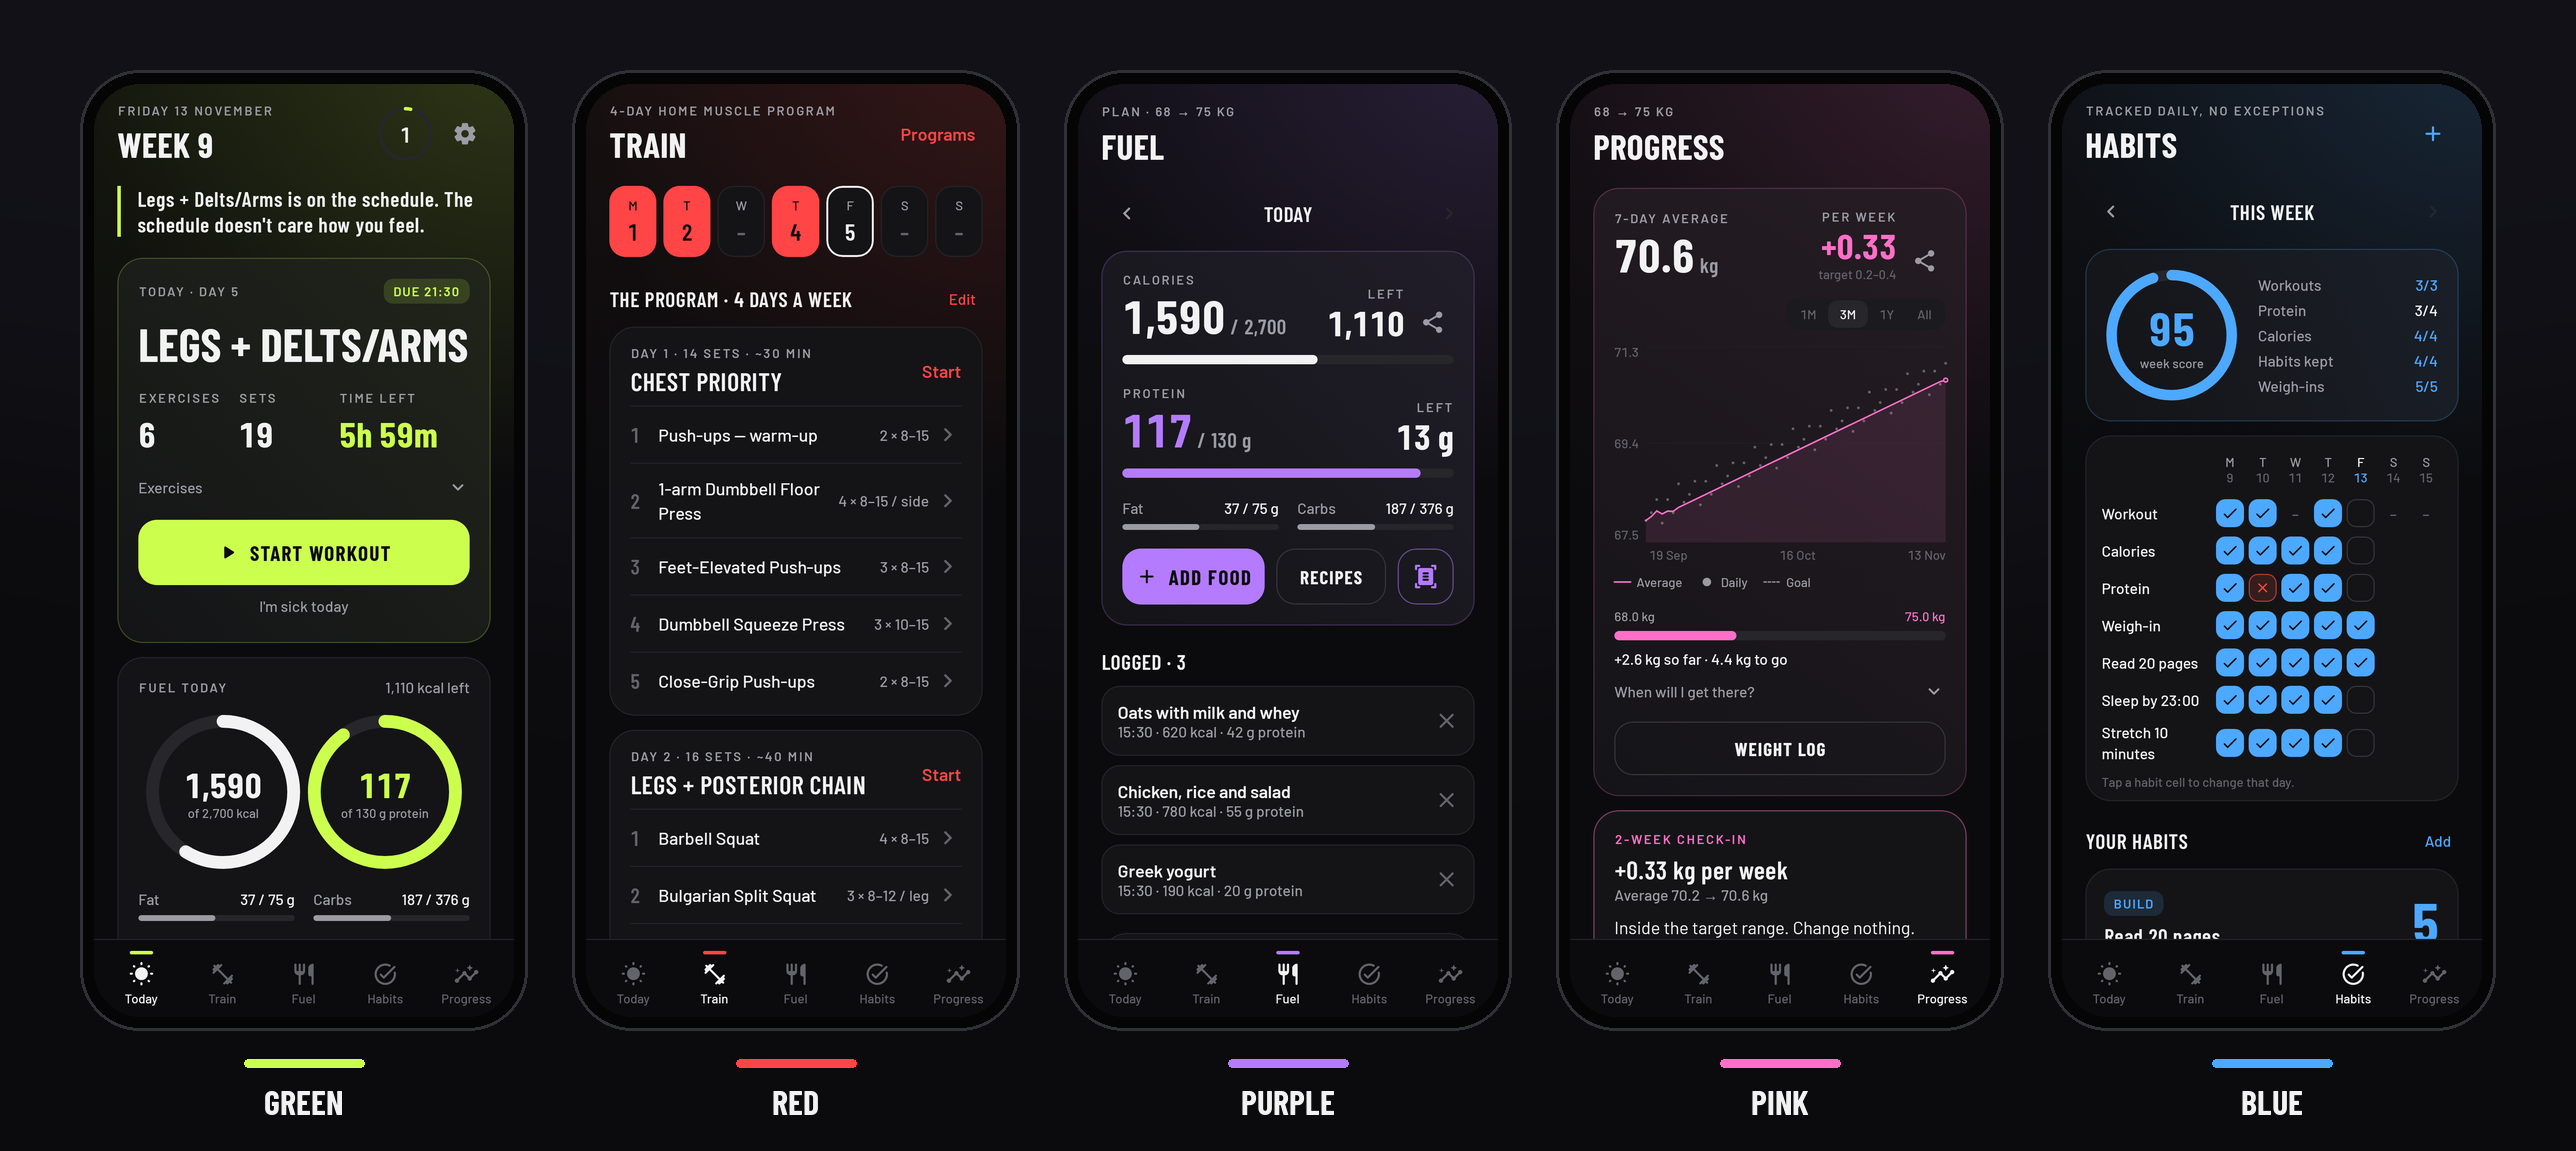
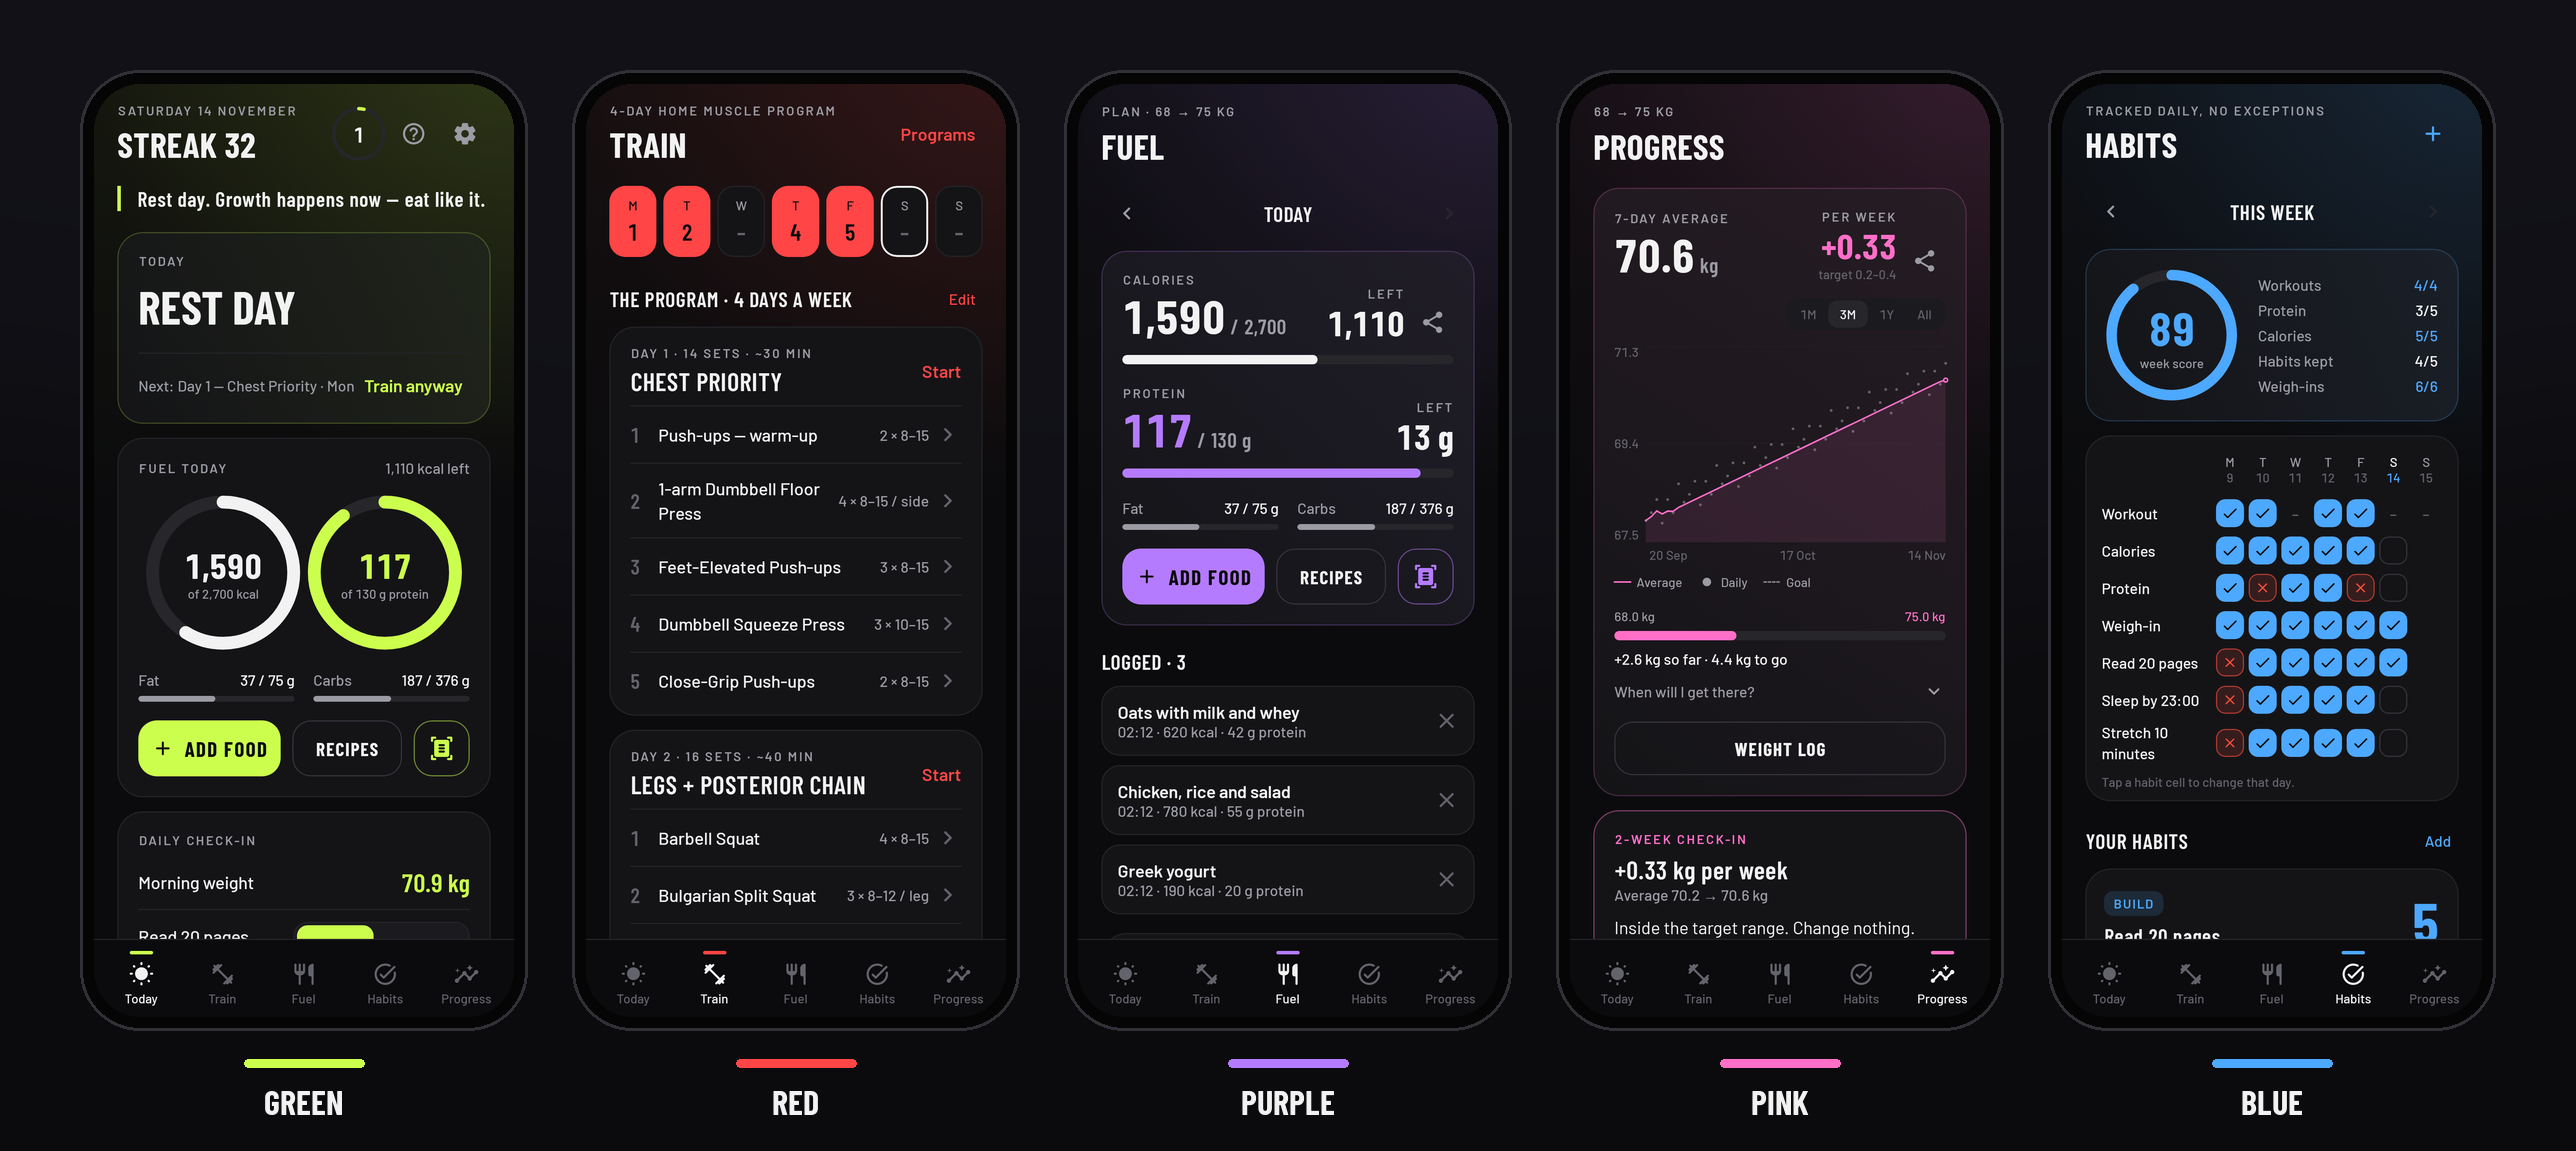
Today header: 'Streak 32' fits on one line; fresh screenshots with it
Claude-Session: https://claude.ai/code/session_01NdNsyPwN19BbtvD8b8GqKi

diff --git a/app/src/main/java/com/forge/app/ui/screens/Today.kt b/app/src/main/java/com/forge/app/ui/screens/Today.kt
@@ -153,11 +153,8 @@ fun TodayScreen(nav: Nav) {
             // The streak says more about today than a week count with nothing to count towards.
             ScreenHeader(
                 eyebrow = Fmt.longDay(today),
-                title = when (streak) {
-                    0 -> "Today"
-                    1 -> "1 session in a row"
-                    else -> "$streak sessions in a row"
-                },
+                // Short enough to stay on one line beside the level ring and icons.
+                title = if (streak > 0) "Streak $streak" else "Today",
             ) {
                 Box(Modifier.clip(CircleShape).clickable { nav.tab("progress") }) {
                     Ring(level.progress, size = 46.dp, stroke = 3.dp) {

diff --git a/app/src/main/java/com/forge/app/ui/Guide.kt b/app/src/main/java/com/forge/app/ui/Guide.kt
@@ -114,7 +114,7 @@ object Guide {
                 "Settings is the gear at the top of Today: your color, reminder times, targets and backups.",
                 "Reminders do the pushing, so keep notifications on.",
             ),
-            "You can replay this guide any time from Settings.",
+            "Replay this guide any time with the ? button on Today.",
         ),
     )
 }

diff --git a/README.md b/README.md
@@ -53,7 +53,7 @@ Prefer a dedicated updater? [Obtainium](https://github.com/ImranR98/Obtainium) w
 
 | | |
 |---|---|
-| **Today** | Your session streak up top, today's session with a live deadline countdown, calorie and protein rings, morning weigh-in, daily habit check-in, streak, week score, and a blunt line for the day. |
+| **Today** | Your session streak up top ("Streak 32"), today's session with a live deadline countdown, calorie and protein rings, morning weigh-in, daily habit check-in, streak, week score, and a blunt line for the day. |
 | **Programs** | Six ready-made programs (the original 4-day home program, full body, upper/lower, push/pull/legs, dumbbell-only, bodyweight-only) or build your own: pick training days, add exercises from 85 gym and home exercises, set sets and reps (or seconds), reorder, and add your own exercises. Keep several programs and switch any time; your history stays. Share a program as a QR code: others scan it with the camera or from a screenshot. |
 | **Train** | The active program, form guides for every exercise (how to do it, setup, cues, common mistakes) in tap-to-open sections, a 1-rep-max chart per exercise, session history. |
 | **Workout** | Tick sets, adjust reps and kg, see last time's numbers, automatic rest timer, double-progression hints ("go heavier: 12.5 kg"), PR detection. A session counts only at 75% of its sets. |

diff --git a/release-notes.md b/release-notes.md
@@ -1,6 +1,7 @@
-## Forge 1.11.3
+## Forge 1.11.4
 
-- **Share cards fill the whole picture.** On days without a target hit, the Fuel card left an empty band above the credit line. The protein chart now grows to fill the card, and every card always ends with a line (for example "121 g of protein to go today.").
+- **Today's header fits on one line:** it now reads "Streak 32" (or "Today" when you're starting fresh) instead of "32 sessions in a row", which wrapped next to the icons.
+- The guide's last tip points to the **?** button on Today for replaying it.
 
 Your data is untouched.
 
